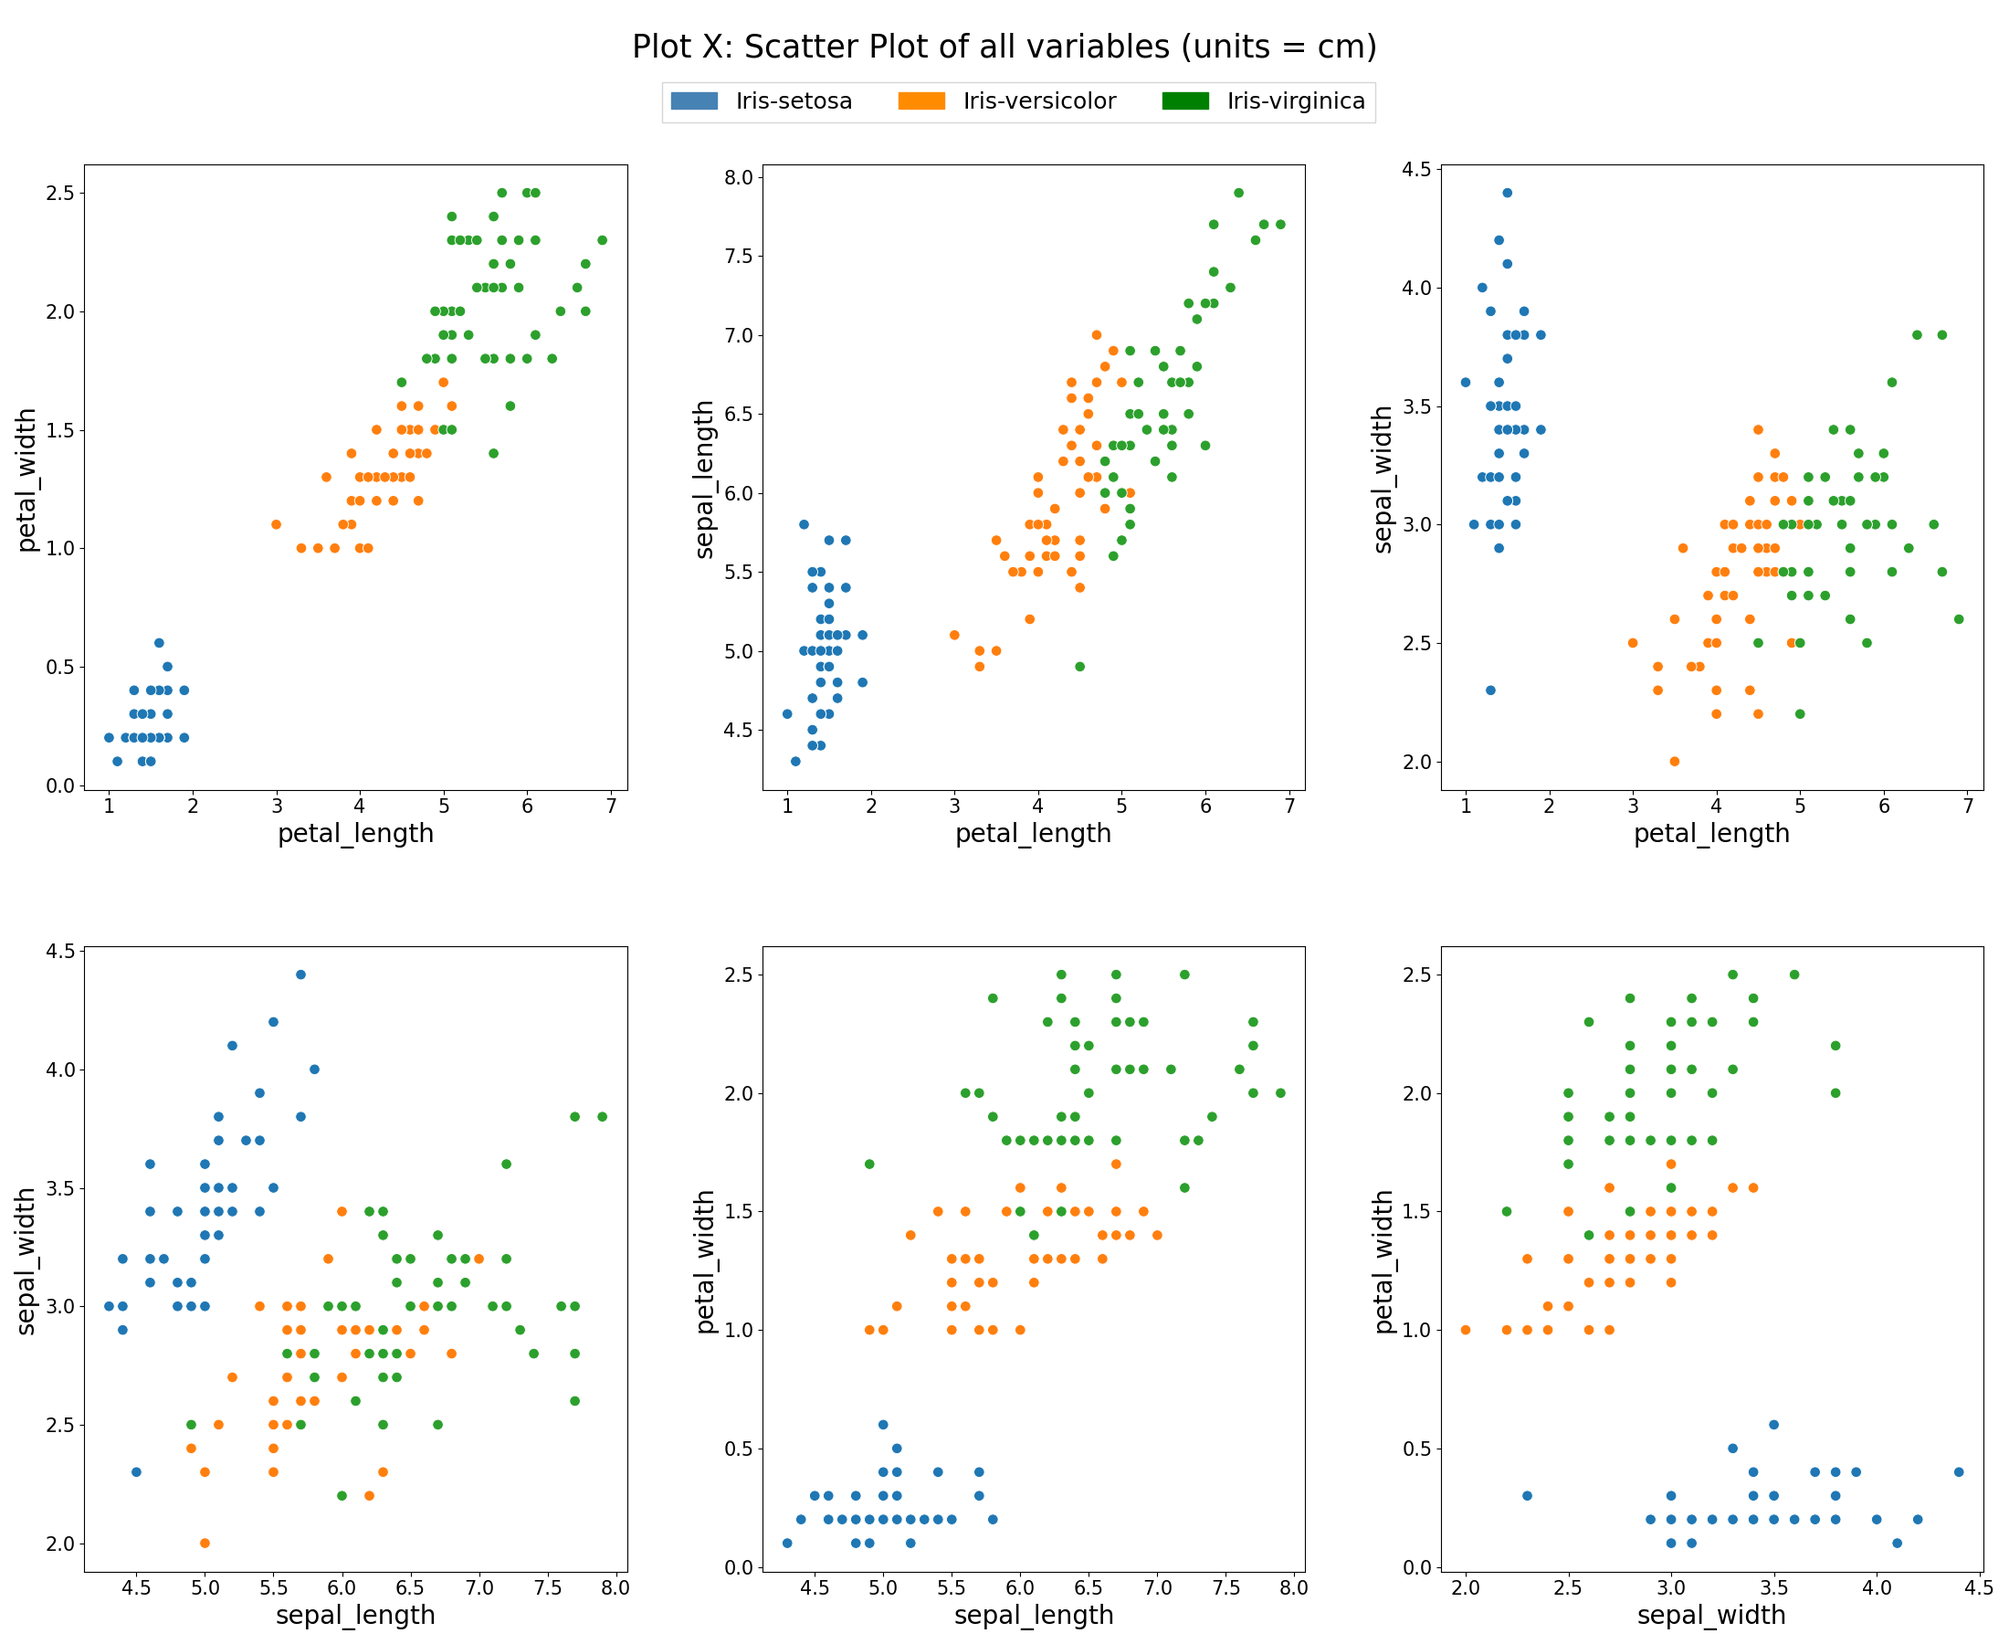
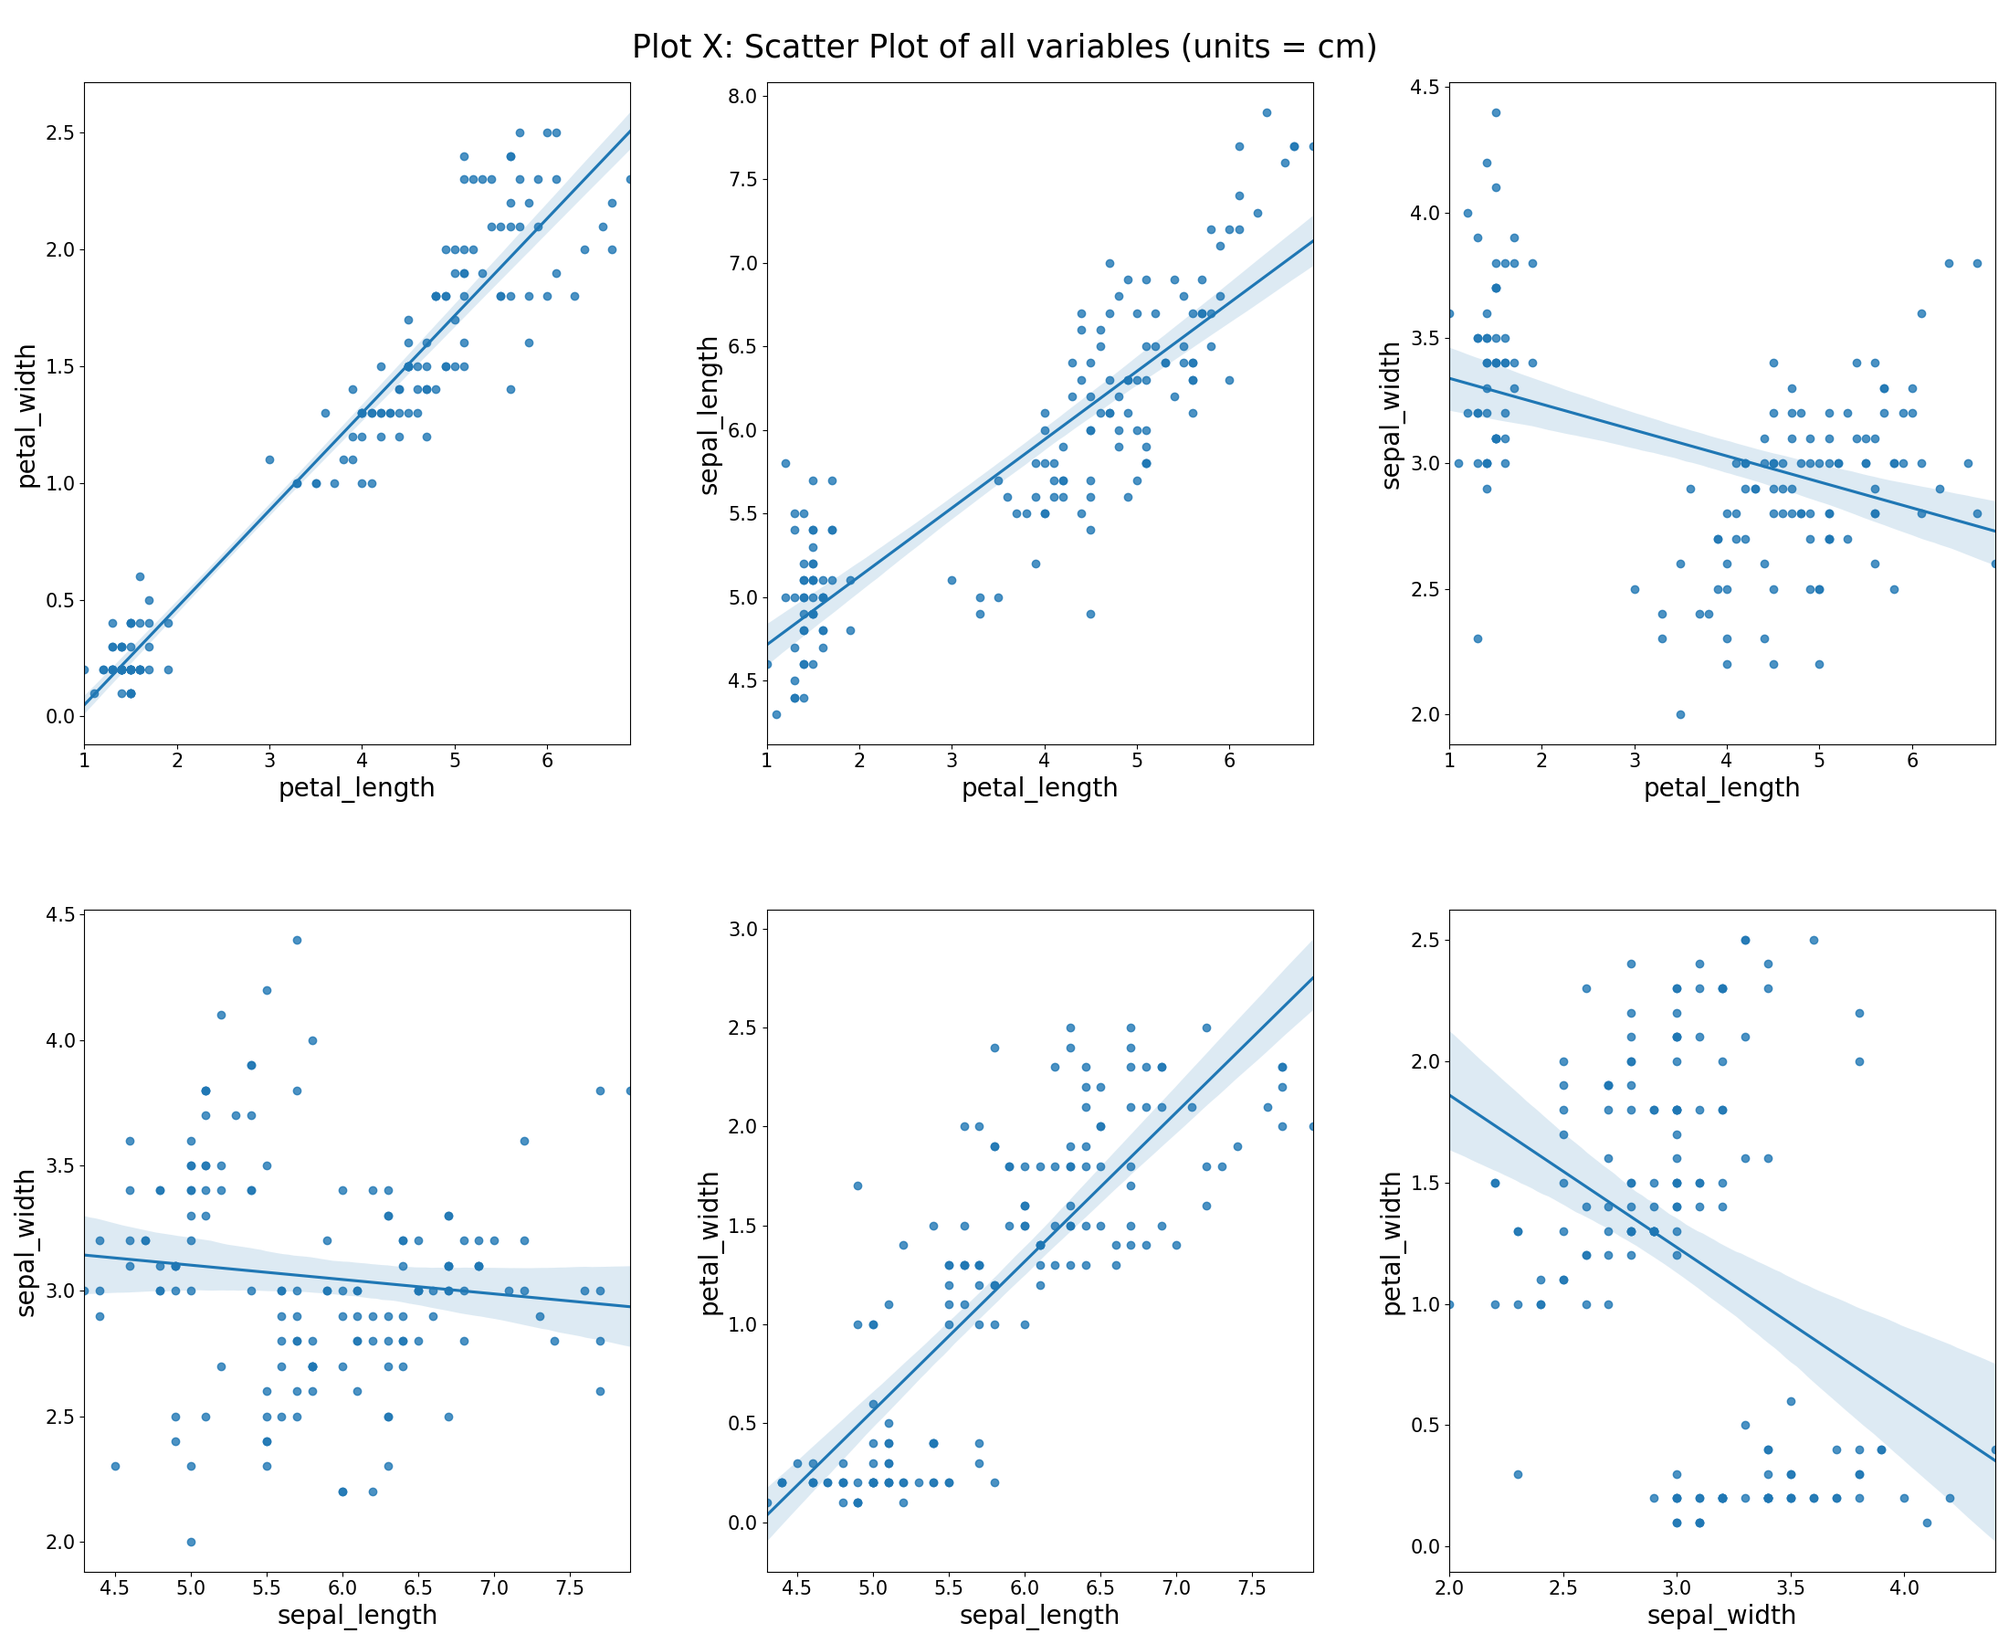
test

diff --git a/Project/analysis.py b/Project/analysis.py
@@ -1,76 +1,97 @@
 import pandas as pd
 import numpy as np
 import seaborn as sns
+from matplotlib import patches as mpatches
 import matplotlib.pyplot as plt
 import os 
 
-os.chdir(os.path.dirname(__file__))                                                                    # change current directory to that of this module
+os.chdir(os.path.dirname(__file__))                                                              # change current directory to that of this module
 
 
 def read_iris_dataset():
     iris_data_file = 'iris_data_set.txt'
-    iris_df = pd.read_csv(iris_data_file, delimiter = ',', header = None)                              # read in Iris Dataset via Pandas Library
-    iris_df.columns =['sepal_length', 'sepal_width', 'petal_length', 'petal_width','species']          # add columns headers
-    return iris_df
+    iris_df = pd.read_csv(iris_data_file, delimiter = ',', header = None)                        # read in Iris Dataset via Pandas Library
+    iris_df.columns =['sepal_length', 'sepal_width', 'petal_length', 'petal_width','species']    # add columns headers
+    return iris_df                                                                               # return dataframe
+ 
+iris_df = read_iris_dataset()                                                                    # store dataframe in iris_df variable
 
-iris_df = read_iris_dataset()
 
+
+class summary_creator:  
+    # constructor __init__ method:
+        # called when object is Instantiated
+        # allows summary_creator class to initialise its attributes
+
+    def __init__(self, shape, data_types, null_count, species_count, desc_all_species, df_head, skewness_all_species, kurtosis_all_species, correlation):
+        self.shape = shape
+        self.data_types = data_types
+        self.null_count = null_count
+        self.species_count = species_count
+        self.desc_all_species = desc_all_species
+        self.df_head = df_head
+        self.skewness_all_species = skewness_all_species
+        self.kurtosis_all_species = kurtosis_all_species
+        self.correlation = correlation
     
-def summary_variables():
-    
-    shape = (len(iris_df.axes[1]),len(iris_df.axes[0]))                                  # count # rows on each axis of array
-    data_types = iris_df.dtypes                                                            
-    null_count = iris_df.isnull().sum()                                                  # True for NaN / blank values
-    species_count = iris_df.groupby('species').size()                                    
-    desc_all_species = iris_df.describe()
-    df_head = iris_df.head(5)
-    skewness_all_species = iris_df.skew()
-    kurtosis_all_species = iris_df.kurtosis()
-    correlation = iris_df.corr()
-    pd.set_option("display.precision", 2)
-    
-    return shape, data_types, null_count, species_count, desc_all_species, df_head, skewness_all_species, kurtosis_all_species, correlation
-    
-summary_tuple = summary_variables()   
+
+    # instance method
+        # calls object attributes relevant to summary
+        # writes the summaries (w = overwrite) to text file, operation will make file if doesnt exist
+    def write_function(self):
+        with open('summary_file.txt', 'w') as f:      
+            spacing_variable = ('\n' * 3)
+            f.write('Fisher Iris Dataset Summary' + spacing_variable)
+            f.write('Number of columns = {} \nNumber of rows = {}{}'.format(summary_creator_val.shape[0],summary_creator_val.shape[1],spacing_variable)) 
+            f.write('Column name:  Pandas dtypes: \n'+ str(summary_creator_val.data_types) + spacing_variable) 
+            f.write('Column name:  Null Count: \n'+ str(summary_creator_val.null_count) + spacing_variable)
+            f.write('Row Count per Species: \n'+ str(summary_creator_val.species_count) + spacing_variable)          
+            f.write(' '*17 + 'First 5 rows of the Dataset\n' + str(summary_creator_val.df_head)  + spacing_variable)
+            f.write(' '*17 + 'All Species : Summary Statistics \n' + str(summary_creator_val.desc_all_species) + spacing_variable)
+            f.write('Distribution Skewness \n' + str(summary_creator_val.skewness_all_species) + spacing_variable)
+            f.write('Distribution Kurtosis \n' + str(summary_creator_val.kurtosis_all_species) + spacing_variable)
+            f.write(' '*17 + 'All Species : Correlation Statistics \n' + str(summary_creator_val.correlation) + spacing_variable)
 
 
-def write_summary_variables(summary_tuple):
-    with open('summary_file.txt', 'w') as f:
+def summary_variables():                                                                     # setting summary variables via pandas methods
+        shape = (len(iris_df.axes[1]),len(iris_df.axes[0]))                                  # length/width of dataframe
+        data_types = iris_df.dtypes                                                          # data-types of columns                                                           
+        null_count = iris_df.isnull().sum()                                                  # True for NaN / blank values
+        species_count = iris_df.groupby('species').size()                                    # Computes group sizes                                 
+        desc_all_species = iris_df.describe()                                                # dataframe summary 
+        df_head = iris_df.head(5)                                                            # first 5 rows of dataframe
+        skewness = iris_df.skew()                                                            # returns skew of all iris features                        
+        kurtosis = iris_df.kurtosis()                                                        # returns kurtosis of all iris features
+        correlation = iris_df.corr()                                                         # Compute pairwise Pearsons correlation of columns
+        pd.set_option("display.precision", 2)                                                # display data to 2 decimal places
 
-        skip_three_lines = ('\n' * 3)
-        
-        f.write('Fisher Iris Dataset Summary' + skip_three_lines)
-        f.write('Number of columns = {} \nNumber of rows = {}{}'.format(summary_tuple[0][0],summary_tuple[0][1],skip_three_lines)) 
-        f.write('Column name:  Pandas dtypes: \n'+ str(summary_tuple[1]) + skip_three_lines) 
-        f.write('Column name:  Null Count: \n'+ str(summary_tuple[2]) + skip_three_lines)
-        f.write('Row Count per Species: \n'+ str(summary_tuple[3]) + skip_three_lines)  
-        f.write(' '*17 + 'First 5 rows of the Dataset\n' + str(summary_tuple[4])  + skip_three_lines)
-        f.write(' '*17 + 'All Species : Summary Statistics \n' + str(summary_tuple[5]) + skip_three_lines)
-        f.write('Distribution Skewness \n' + str(summary_tuple[6]) + skip_three_lines)
-        f.write('Distribution Kurtosis \n' + str(summary_tuple[7]) + skip_three_lines)
-        f.write(' '*17 + 'All Species : Correlation Statistics \n' + str(summary_tuple[8]) + skip_three_lines)
+        # Instantiate an object of type summary_creator & return object
+        summary_creator_val = summary_creator(shape, data_types, null_count, species_count, 
+        desc_all_species, df_head, skewness, kurtosis, correlation)
+        return summary_creator_val
 
-write_summary_variables(summary_tuple)
+summary_creator_val = summary_variables()                                               # set variable to object (via calling function and returning object)
+summary_creator_val.write_function()                                                    # call write_function() instance method of summary_creator class
 
 
 
-#Reference: https://seaborn.pydata.org/generated/seaborn.histplot.html
-#Reference: https://www.python-graph-gallery.com/25-histogram-with-several-variables-seaborn
-#Reference: https://stackoverflow.com/questions/42404154/increase-tick-label-font-size-in-seaborn
 def plot_histograms(filename, plot_name, chart_title, x_series_one, x_series_two):  
-
+#Reference: 
+# [1] Holtz, Y, 2021, Histogram with several variables with Seaborn, viewed 20 April 2021, 
+#     https://www.python-graph-gallery.com/25-histogram-with-several-variables-seaborn
+# [2] Waskom, M, 2021, seaborn.histplot, viewed 20 April 2021, https://seaborn.pydata.org/generated/seaborn.histplot.html.
     bin_number = 15
 
     fig, axes = plt.subplots(2, 2, figsize=(14, 14))
     fig.suptitle('{}: Histogram of {} variables (cm)'.format(plot_name,chart_title),fontsize = 25)
 
-    sns.histplot(ax=axes[0, 0], data=iris_df, x = x_series_one, bins = bin_number, legend = False, kde = True,element = "step")
-    sns.histplot(ax=axes[0, 1], data=iris_df, x = x_series_two, bins = bin_number, legend = False, kde = True,element ="step")
-    sns.histplot(ax=axes[1, 0], data=iris_df, x = x_series_one, bins = bin_number, legend = False, hue = 'species',kde = True, element ="step") 
-    hist_with_legend = sns.histplot(ax=axes[1, 1], data=iris_df, x = x_series_two, bins = bin_number, hue = 'species', kde = True, element = "step") 
+    sns.histplot(ax=axes[0, 0], data = iris_df, x = x_series_one, bins = bin_number, legend = False, kde = True, element = "step")
+    sns.histplot(ax=axes[0, 1], data = iris_df, x = x_series_two, bins = bin_number, legend = False, kde = True, element ="step")
+    sns.histplot(ax=axes[1, 0], data = iris_df, x = x_series_one, bins = bin_number, legend = False, hue = 'species', kde = True, element ="step") 
+    plot_four = sns.histplot(ax=axes[1, 1], data=iris_df, x = x_series_two, bins = bin_number, hue = 'species', kde = True, element = "step") 
     
-    plt.setp(hist_with_legend.get_legend().get_texts(), fontsize='20') # for legend text
-    plt.setp(hist_with_legend.get_legend().get_title(), fontsize='22') # for legend title
+    plt.setp(plot_four.get_legend().get_texts(), fontsize='20') # for legend text
+    plt.setp(plot_four.get_legend().get_title(), fontsize='22') # for legend title
     
     for ax in plt.gcf().axes:
         x = ax.get_xlabel()
@@ -84,15 +105,12 @@ def plot_histograms(filename, plot_name, chart_title, x_series_one, x_series_two
     fig.tight_layout() 
     plt.savefig('Images/' + filename +'.png')
  
-plot_histograms('histograms_petals','Plot 1','Petals','petal_length','petal_width')
-plot_histograms('histograms_sepals','Plot 2','Sepals','sepal_length','sepal_width')
 
 
-# Referecnces 
-#C, J, 2020, Create a single legend for multiple plot in matplotlib, seaborn, stack overflow, viewed 21 April 2021, https://stackoverflow.com/questions/62252493/create-a-single-legend-for-multiple-plot-in-matplotlib-seaborn.
-# Reference: https://seaborn.pydata.org/generated/seaborn.boxplot.html
 def plot_boxplot():
-    from matplotlib import patches as mpatches
+# [1] C, J, 2020, Create a single legend for multiple plot in matplotlib, seaborn, stack overflow, viewed 21 April 2021, 
+#     https://stackoverflow.com/questions/62252493/create-a-single-legend-for-multiple-plot-in-matplotlib-seaborn.
+# [2] Waskom, M, 2021, seaborn.boxplot, viewed 21 April 2021, https://seaborn.pydata.org/generated/seaborn.boxplot.html.
 
     fig, axes = plt.subplots(1,4, figsize=(26, 14))
     fig.suptitle('Fig X : Boxplot of Iris dependant variables (cm)', fontsize = 30)
@@ -124,38 +142,21 @@ def plot_boxplot():
 
     plt.savefig('Images/' + 'box_plots' +'.png')
 
-plot_boxplot()
-    
-
-    #plt.subplots_adjust(wspace=0.25, hspace = 0.25, top = 0.9)     
 
 
-
-
-
-
-def scatter_plot(): 
-    from matplotlib import patches as mpatches
-    
+def scatter_plot():     
+# Reference:
+# Waskom, M, 2021, seaborn.seaborn.regplot, viewed 23 April 2021, https://seaborn.pydata.org/generated/seaborn.regplot.html.
     fig, axes = plt.subplots(2, 3, figsize=(22, 18))
     plt.subplots_adjust(wspace=0.2,hspace=0.4)
     fig.suptitle('Plot X: Scatter Plot of all variables (units = cm)',fontsize = 25)
-    
-    sns.scatterplot(ax=axes[0, 0], data=iris_df, x='petal_length', y='petal_width', hue = 'species',legend = False, s = 70)
-    sns.scatterplot(ax=axes[0, 1], data=iris_df, x='petal_length', y='sepal_length',hue = 'species',legend = False, s = 70)
-    sns.scatterplot(ax=axes[0, 2], data=iris_df, x='petal_length', y='sepal_width', hue = 'species',legend = False, s = 70) 
-    sns.scatterplot(ax=axes[1, 0], data=iris_df, x='sepal_length', y='sepal_width', hue = 'species',legend = False, s = 70)
-    sns.scatterplot(ax=axes[1, 1], data=iris_df, x='sepal_length', y='petal_width', hue = 'species',legend = False, s = 70) 
-    sns.scatterplot(ax=axes[1, 2], data=iris_df, x='sepal_width',  y='petal_width', hue = 'species',legend = False, s = 70)
 
-    legend_labels = ['Iris-setosa', 'Iris-versicolor', 'Iris-virginica']
-    setosa = mpatches.Patch(color='steelblue')
-    versi = mpatches.Patch(color='darkorange')
-    virgi = mpatches.Patch(color='green')
-
-    plt.legend(title = False, labels=legend_labels,
-              handles=[setosa, versi, virgi], bbox_to_anchor=(-0.1, 2.4),
-              fancybox=False, shadow=False, ncol=3, loc='upper right', fontsize = 18)
+    sns.regplot(ax=axes[0, 0], data=iris_df, x='petal_length', y='petal_width')
+    sns.regplot(ax=axes[0, 1], data=iris_df, x='petal_length', y='sepal_length')
+    sns.regplot(ax=axes[0, 2], data=iris_df, x='petal_length', y='sepal_width') 
+    sns.regplot(ax=axes[1, 0], data=iris_df, x='sepal_length', y='sepal_width')
+    sns.regplot(ax=axes[1, 1], data=iris_df, x='sepal_length', y='petal_width') 
+    sns.regplot(ax=axes[1, 2], data=iris_df, x='sepal_width',  y='petal_width')
 
     for ax in plt.gcf().axes:
         x = ax.get_xlabel()
@@ -167,19 +168,26 @@ def scatter_plot():
         plt.setp(ax.get_yticklabels(), fontsize=15)  
     
     fig.tight_layout()
-    plt.subplots_adjust(wspace=0.25, hspace = 0.25, top = 0.9)     
-    plt.savefig('Images/' + 'scatter_plots' +'.png')
-    
-scatter_plot()
+    plt.subplots_adjust(wspace=0.25, hspace = 0.25, top = 0.95)     
+    plt.savefig('Images/' + 'scatter_plots' +'.png')   
 
-# Reference: https://seaborn.pydata.org/generated/seaborn.lmplot.html
-def lmplot(): 
+
+
+def implot(): 
+# Reference:
+# Waskom, M, 2021, seaborn.implot, viewed 24 April 2021, https://seaborn.pydata.org/generated/seaborn.lmplot.html.
     sns.lmplot(data=iris_df, x='petal_length', y='petal_width', hue = 'species')
     plt.suptitle('Plot X: Scatter Plot of all petal length Vs. petal width',fontsize = 11)
     plt.tight_layout()
-    plt.savefig('Images/' + 'testing' +'.png')
+    plt.savefig('Images/' + 'implot' +'.png')
+    
     
 
-lmplot()
-#if __name__ == __main__:
-    #pass
+if __name__ == '__main__':
+    plot_histograms('histograms_petals','Plot 1','Petals','petal_length','petal_width')
+    plot_histograms('histograms_sepals','Plot 2','Sepals','sepal_length','sepal_width')
+    plot_boxplot()
+    scatter_plot()
+    implot()
+else:
+    pass
